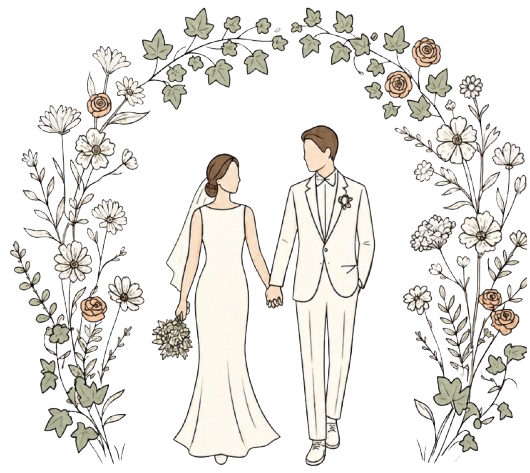
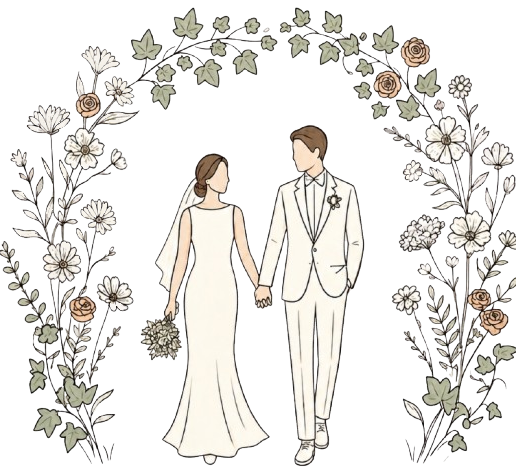
readme 가격, 일러스트 이미지 수정

Changed region(s): [[0.0, 0.0, 0.9865, 1.0]]

diff --git a/README.md b/README.md
@@ -88,9 +88,9 @@
 | 코드 | 이름 | 가격 | 지급 |
 | --- | --- | --- | --- |
 | `basic` | 기본 발행권 | 9,900원 | 발행권 +2 |
-| `archive_basic` | 영구소장 | 14,900원 | 영구소장권 +2 (소장용 URL 영구 보관) |
+| `archive_basic` | 영구소장 | 3,000원 | 영구소장권 +2 (소장용 URL 영구 보관) |
 | `ai_snap` | AI 웨딩 스냅 | 19,900원 | AI 컨셉 이미지 기능 잠금 해제 (entitlement) |
-| `ai_video` | AI 웨딩 영상 | 29,900원 | AI 영상 기능 잠금 해제 (entitlement) |
+| `ai_video` | AI 웨딩 영상 | 19,900원 | AI 영상 기능 잠금 해제 (entitlement) |
 | `family_pack` | 가족 패키지 | 9,900원 | 가족 정보·가족별 슬라이드 (entitlement) |
 
 - 발행권/영구소장권은 **ledger 테이블**(누적 ±)로 관리.
